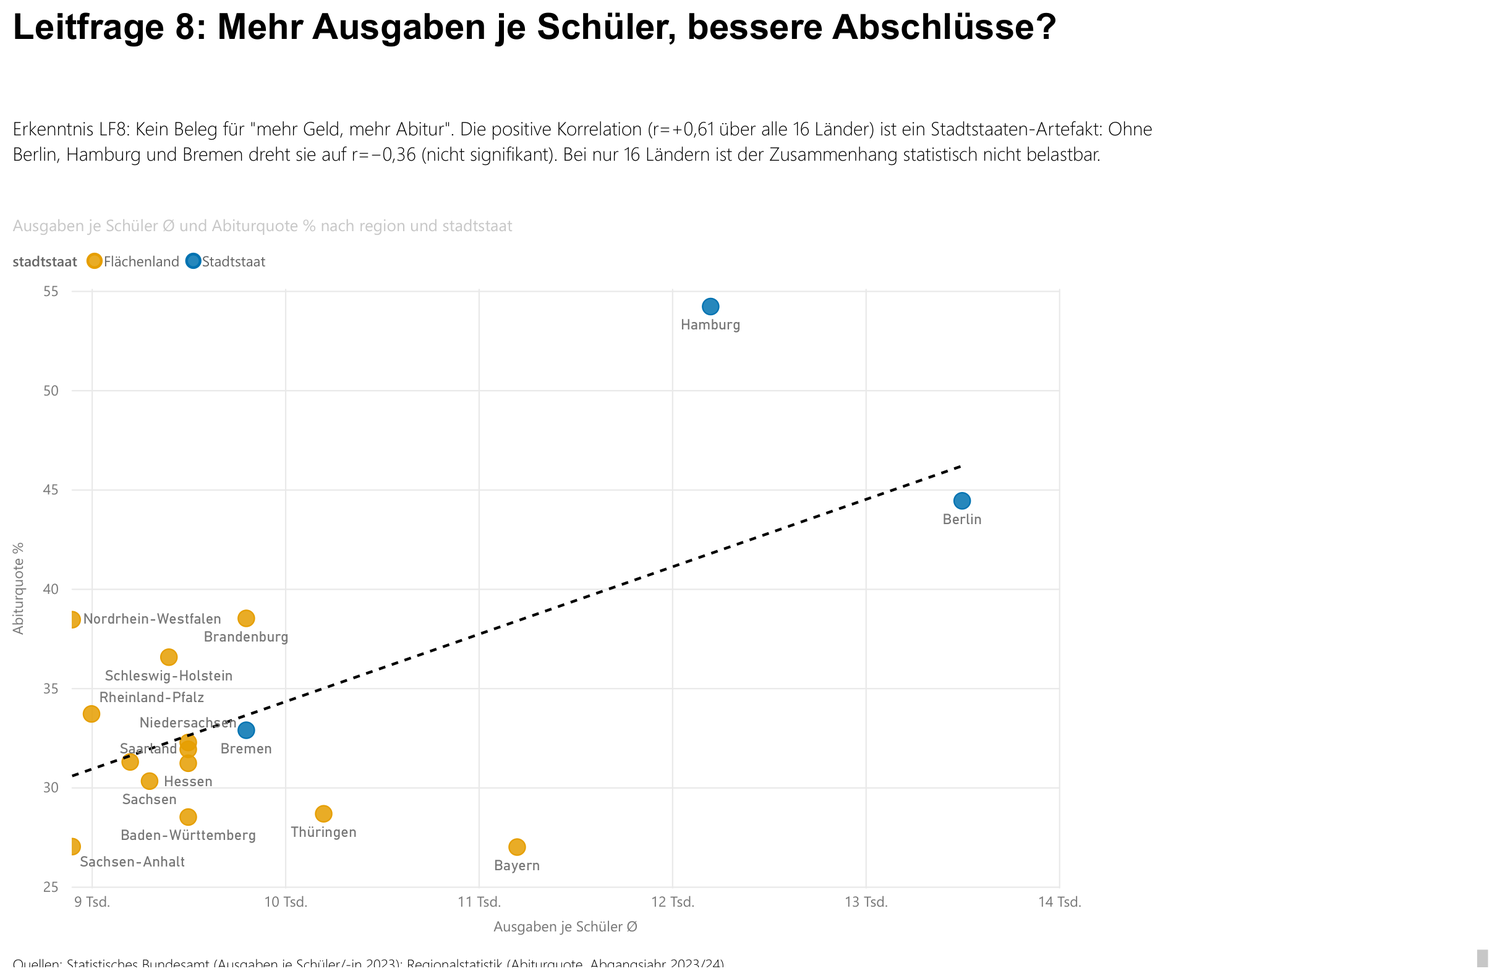
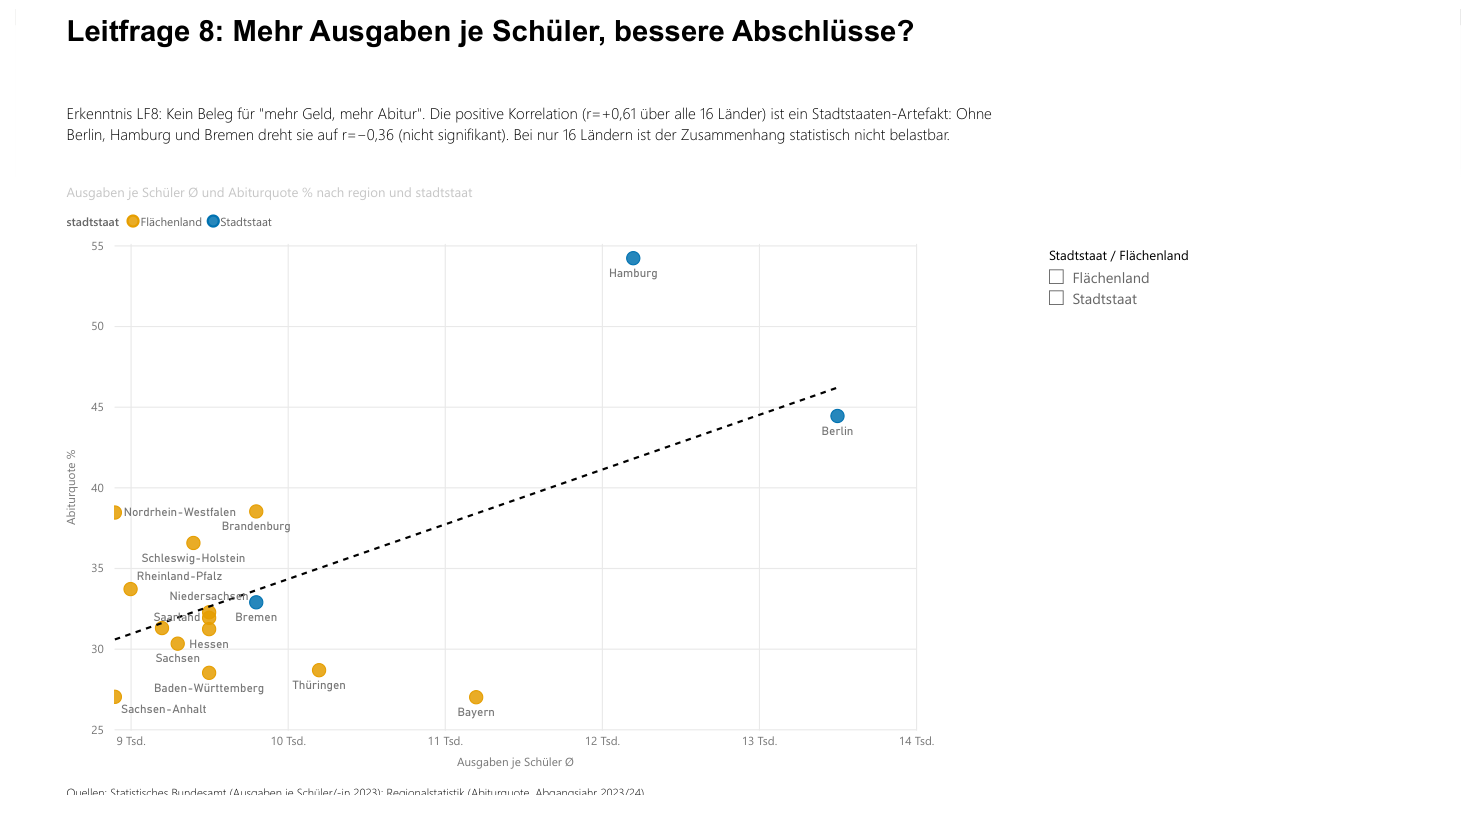
Runde 9: LF8 – Stadtstaat/Flaechenland-Slicer wieder aufgenommen; zwei Jahresfilter als notwendig bestaetigt
- Neuer Slicer dim_region[stadtstaat] (Mehrfachauswahl) rechts am Streudiagramm -> Confounder umschaltbar; live geprueft: Flaechenland gewaehlt -> 13 Punkte, Trendlinie kippt auf r<0; Auswahl geloescht -> alle 16
- Zwei Jahresfilter geprueft und bewusst behalten (NICHT redundant): X=fact_ausgaben_je_schueler[jahr]=2023 (Quelle 2010-2024, keine dim_zeit-Beziehung) + Y=fact_abgaenge[jahr]=2023 (2022/23); nur letztere haengt an dim_zeit -> nicht zu einem Filter konsolidierbar
- pbi_lf8.png neu gecroppt (mit Slicer); .pbix + bericht.pdf neu exportiert; DOCX/README/visual_spezifikation ergaenzt
- verify_all 110/110 (neuer LF8-Regressionsguard: Slicer + 2 Jahresfilter)

diff --git a/scripts/p7_build_docx.py b/scripts/p7_build_docx.py
@@ -295,12 +295,17 @@ P("LF8 – Mehr Ausgaben je Schüler, bessere Abschlüsse?",bold=True)
 PL("Was wir zunächst sahen:","Auf den ersten Blick scheint der Zusammenhang zu bestehen: Über alle 16 "
    "Bundesländer korrelieren höhere Ausgaben je Schüler mit höheren Abiturquoten (r = +0,61, p = 0,012).")
 pic("pbi/pbi_lf8.png",cap="Abb. 9 (LF8): Berichtsseite LF8 – Ausgaben je Schüler und Abiturquote je Bundesland "
-    "(2023). Die Stadtstaaten sind farblich abgesetzt; sie treiben die scheinbar positive Trendlinie.")
+    "(2023). Die Stadtstaaten sind farblich abgesetzt; sie treiben die scheinbar positive Trendlinie. Ein "
+    "Stadtstaat/Flächenland-Slicer blendet Gruppen aus und macht den Confounder umschaltbar.")
 PL("Was wir tatsächlich herausgefunden haben:","Dieser Eindruck ist ein Stadtstaaten-Artefakt. Berlin, Hamburg "
    "und Bremen verbinden struktur- und stadtbedingt hohe Ausgaben mit hohen Abiturquoten und ziehen die "
    "Trendlinie nach oben. Nimmt man die drei Stadtstaaten heraus, dreht der Zusammenhang unter den 13 "
    "Flächenländern ins Negative (r = −0,36) und ist nicht mehr signifikant. Wir haben die Punkte deshalb im "
-   "Live-Visual nach Stadtstaat und Flächenland eingefärbt, damit dieser Effekt unmittelbar sichtbar wird.")
+   "Live-Visual nach Stadtstaat und Flächenland eingefärbt und einen Stadtstaat/Flächenland-Slicer ergänzt: "
+   "Blendet man die drei Stadtstaaten aus, kippt die Trendlinie im Bericht unmittelbar sichtbar ins Negative. "
+   "Beide Achsen sind über getrennte Jahresfilter fest auf 2023 gepinnt – einen für die Ausgaben-Quelle (die die "
+   "Jahre 2010–2024 enthält) und einen für die Abgänge-Quelle (2022/2023); da nur letztere an der Zeit-Dimension "
+   "hängt, sind zwei Filter nötig und nicht redundant.")
 PL("Womit wir das belegen – und womit nicht:","Für einen belastbaren Beleg ist die Datenlage schlicht zu dünn. "
    "Ausgaben liegen nur je Bundesland vor, also nur 16 Datenpunkte. Entsprechend breit sind die "
    "Konfidenzintervalle: für alle 16 Länder reicht das 95%-Intervall von +0,17 bis +0,85, für die 13 "

diff --git a/scripts/verify_all.py b/scripts/verify_all.py
@@ -373,6 +373,13 @@ check("LF4-Report: Bundesland-Slicer (Land) + Karten auf ebene IN (DE,BL) umgest
 _lf5pg=open(os.path.join(PBI,"SchulabschlussDataStory.Report","definition","pages","a0c706439d9e1475cc04","page.json"),encoding="utf-8").read()
 check("LF5-Report: Bundesland-Slicer filtert nur rechts (links Schuelerschaft = NoFilter, Runde 8)",
       '"5c55a0d500000000aa55"' in _lf5pg and '"79c517a0308302d76186"' in _lf5pg and '"NoFilter"' in _lf5pg)
+# LF8 (Runde 9): Stadtstaat-Slicer (Confounder umschaltbar) wieder aufgenommen; die ZWEI Jahresfilter sind bewusst noetig:
+# X=Ausgaben aus fact_ausgaben_je_schueler (2010-2024, keine dim_zeit-Beziehung -> eigener Pin) + Y=Abiturquote aus fact_abgaenge (2022/23) -> je 2023 gepinnt
+_lf8dir=os.path.join(PBI,"SchulabschlussDataStory.Report","definition","pages","9ae4b1f9710092199bca","visuals")
+_lf8sc=open(os.path.join(_lf8dir,"ae0c1c8278c9dd1a3a20","visual.json"),encoding="utf-8").read()
+check("LF8-Report: Stadtstaat-Slicer vorhanden + 2 bewusste Jahresfilter (Ausgaben- & Abgaenge-Fakttabelle, Runde 9)",
+      os.path.exists(os.path.join(_lf8dir,"b8stadtstaat00000001","visual.json"))
+      and "fact_ausgaben_je_schueler" in _lf8sc and "fact_abgaenge" in _lf8sc and _lf8sc.count('"jahr"')>=4)
 # LF9-Faerbung: Schwelle 5,5 muss exakt die Top-10 treffen (Marge 5,57 vs. 5,44 - Drift-Warnung bei Datenaenderung)
 _n_ueber = sum(1 for v in _score.values() if v >= 5.5)
 check("LF9 Top-10-Schwelle 5,5 trifft exakt 10 Kreise (Farbe Risiko LF9)", _n_ueber == 10, f"{_n_ueber} Kreise >= 5,5")

diff --git a/README.md b/README.md
@@ -29,7 +29,7 @@ Wir sind ein dreiköpfiges Team im Modul *Analytische Anwendungen* und haben die
 
 | 🧱 Modell | 📊 Bericht | 🎨 Gestaltung | ✅ Qualität |
 |:--:|:--:|:--:|:--:|
-| 9 Fakttabellen · 4 Dimensionen | 10 Seiten · 62 Visuals | Okabe-Ito-Farbvertrag | 109/109 Tests grün |
+| 9 Fakttabellen · 4 Dimensionen | 10 Seiten · 63 Visuals | Okabe-Ito-Farbvertrag | 110/110 Tests grün |
 | 34 Measures (23 analytisch + 11 Formatierung) | 1 Karte · 6 Slicer | CVD- & WCAG-geprüft | jede KPI rohdaten-nachgerechnet |
 
 </div>
@@ -80,7 +80,7 @@ Wir sind ein dreiköpfiges Team im Modul *Analytische Anwendungen* und haben die
 ![LF7](charts/pbi/pbi_lf7.png)
 
 #### LF8 — Mehr Geld = bessere Abschlüsse?
-**Unsere Antwort:** **Nein.** Der scheinbar positive Zusammenhang (r = **+0,61**) ist ein **Stadtstaaten-Artefakt**: Klammert man die drei Stadtstaaten aus, kippt er ins Nicht-Signifikante (r = **−0,36**, n. s.). Wir weisen den Confounder offen aus, statt einen bequemen Schluss zu ziehen.
+**Unsere Antwort:** **Nein.** Der scheinbar positive Zusammenhang (r = **+0,61**) ist ein **Stadtstaaten-Artefakt**: Klammert man die drei Stadtstaaten aus, kippt er ins Nicht-Signifikante (r = **−0,36**, n. s.). Wir weisen den Confounder offen aus, statt einen bequemen Schluss zu ziehen. Ein **Stadtstaat/Flächenland-Slicer** macht das interaktiv erlebbar – blendet man die Stadtstaaten aus, kippt die Trendlinie im Bericht sichtbar. (Beide Achsen sind über getrennte Jahresfilter auf 2023 fixiert – die Ausgaben-Quelle enthält 2010–2024, die Abgänge-Quelle 2022/2023; da nur letztere an der Zeit-Dimension hängt, sind bewusst zwei Filter nötig.)
 
 ![LF8](charts/pbi/pbi_lf8.png)
 

diff --git a/visual_spezifikation.md b/visual_spezifikation.md
@@ -21,7 +21,7 @@
 | 5 | LF5 | **Zwei Balken**: links Schülerschaft je Schulart (Input), rechts **Abgänge ohne HSA je Schulart** (Antwort) | links Achse `dim_schulart` / `[Schüleranteil %]`; rechts Achse `fact_abgaenge_schulart[schulart]` / `[Abgänge ohne HSA (Schulart)]`, Förderschulen akzentuiert | `ebene=DE` bzw. Deutschland-Default | „Der Schulartmix prägt die Verteilung: Förderschulen stellen 42 % (23.324) der Abgänge ohne HSA" | `charts/LF5_schulartmix.png` + PBI-Seite LF5 |
 | 6 | LF6 | **Zwei Balkendiagramme nebeneinander** (absolut vs. relativ; Slope/Dumbbell war als Option geplant) | links Achse `dim_region[region]` × `[Abgänge ohne HSA]` (absolut), rechts `dim_region[region]` × `[Ohne HSA je 1000 (15-18)]` (relativ), beide absteigend sortiert | `ebene=BL`, `jahr=2023` | „Die Wertung kippt: absolut NRW/BW/Bayern, relativ Sachsen-Anhalt" | `charts/LF6_absolut_vs_relativ.png` + PBI-Seite LF6 |
 | 7 | LF7 | **Balken** (nach Schulart + nach Bundesland) | Achse `fact_ausgaben_schulart[schulart]`; Wert `[Ausgaben Schulart (DE 2023)]` | `bundesland=Deutschland`, `jahr=2023` | „Gymnasien/Gesamtschulen am teuersten je Schüler" | `charts/LF7_ausgaben_schulart.png` + PBI-Seite LF7 |
-| 8 | LF8 | **Streudiagramm + Trendlinie**, Punkte **nach `stadtstaat` farblich getrennt** (Stadtstaat/Flächenland) | X `Ausgaben je Schüler Ø` (Visualfilter `jahr=2023`); Y `[Abiturquote %]`; Punkt = BL; Legende `dim_region[stadtstaat]` | `ebene=BL`, `jahr=2023` | „r=+0,61 (alle 16) ist ein Stadtstaaten-Artefakt; Flächenländer r=−0,36 (n.s.) – kein Kausalbeleg" | `charts/LF8_ausgaben_vs_abitur.png` (statischer Beleg mit 2 Trendlinien; PBI nativ 1 Trendlinie + Farbtrennung) |
+| 8 | LF8 | **Streudiagramm + Trendlinie**, Punkte **nach `stadtstaat` farblich getrennt** (Stadtstaat/Flächenland) **+ Stadtstaat/Flächenland-Slicer** (Confounder umschaltbar) | X `Ausgaben je Schüler Ø` (Visualfilter `fact_ausgaben_je_schueler[jahr]=2023`); Y `[Abiturquote %]` (Visualfilter `fact_abgaenge[jahr]=2023`); Punkt = BL; Legende/Slicer `dim_region[stadtstaat]` | `ebene=BL`; **zwei Jahresfilter** (je eine Fakttabelle: Ausgaben 2010–2024 + Abgänge 2022/23; keine gemeinsame `dim_zeit`-Beziehung für Ausgaben → beide Pins nötig) | „r=+0,61 (alle 16) ist ein Stadtstaaten-Artefakt; Flächenländer r=−0,36 (n.s.) – kein Kausalbeleg" | `charts/LF8_ausgaben_vs_abitur.png` (statischer Beleg mit 2 Trendlinien; PBI nativ 1 Trendlinie + Farbtrennung + Slicer) |
 | 9 | LF9 | **Dot-/Strip-Plot** (Risiko-Score je Bundesland, ein Punkt je Kreis) + Risiko-Tabelle + Methodik-Box | X `[BL-Position]` (01–16), Y `[Risiko-Score]` (3-dim, z-standardisiert), Punkt = Kreis, Top-10 akzentuiert | `ebene=KR` | „Risiko-Kreise verbinden Bildung, Arbeitslosigkeit & Einkommen – Gelsenkirchen führt (8,08), West wie Ost" | `charts/LF9_risiko_scatter.png` + PBI-Seite LF9 |
 
 ## Interaktivität (REQ-002)